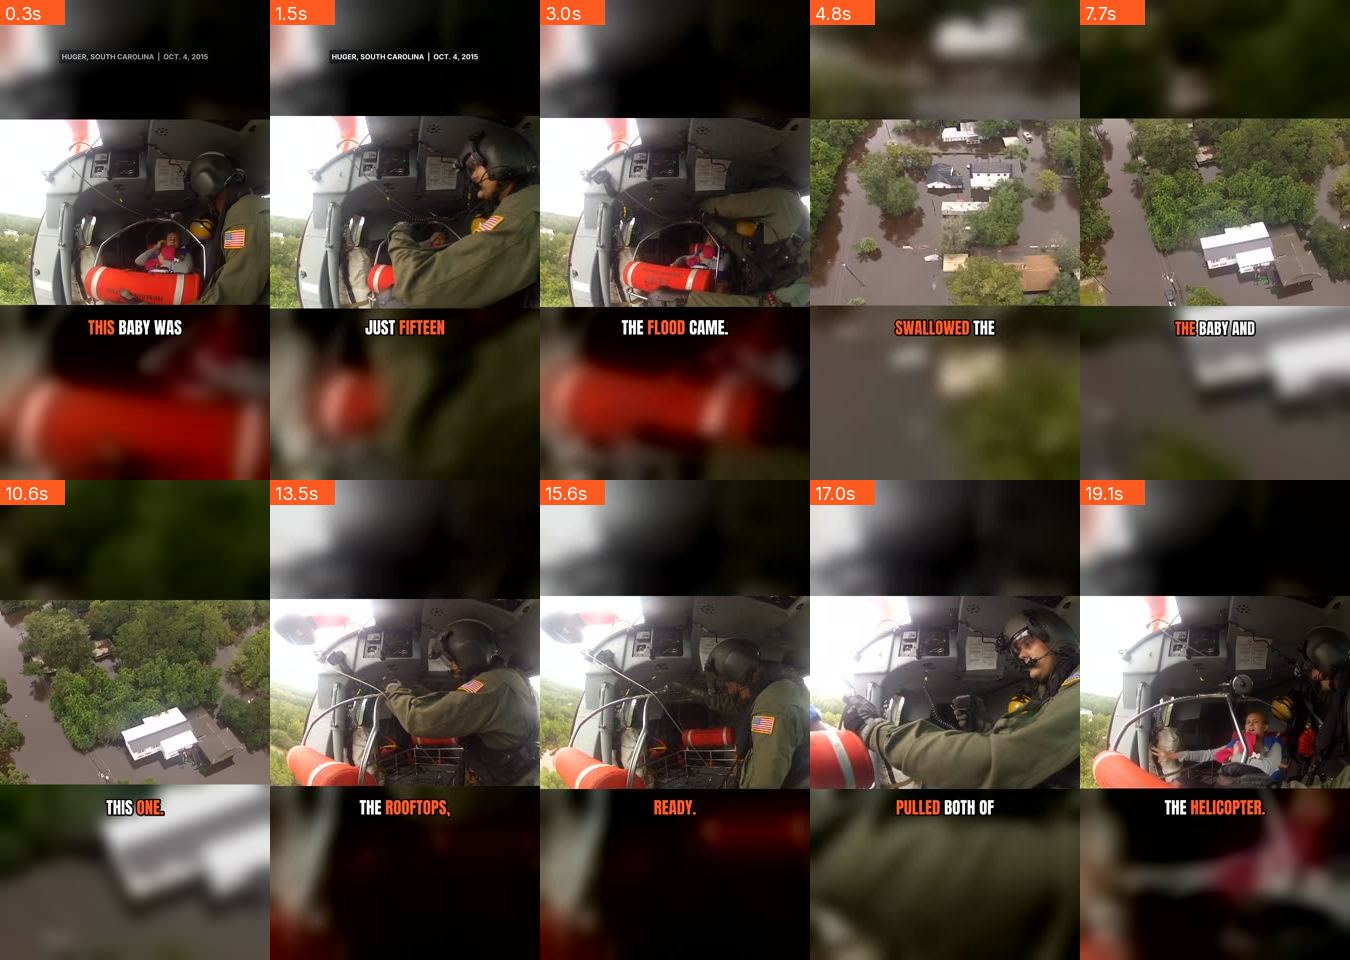
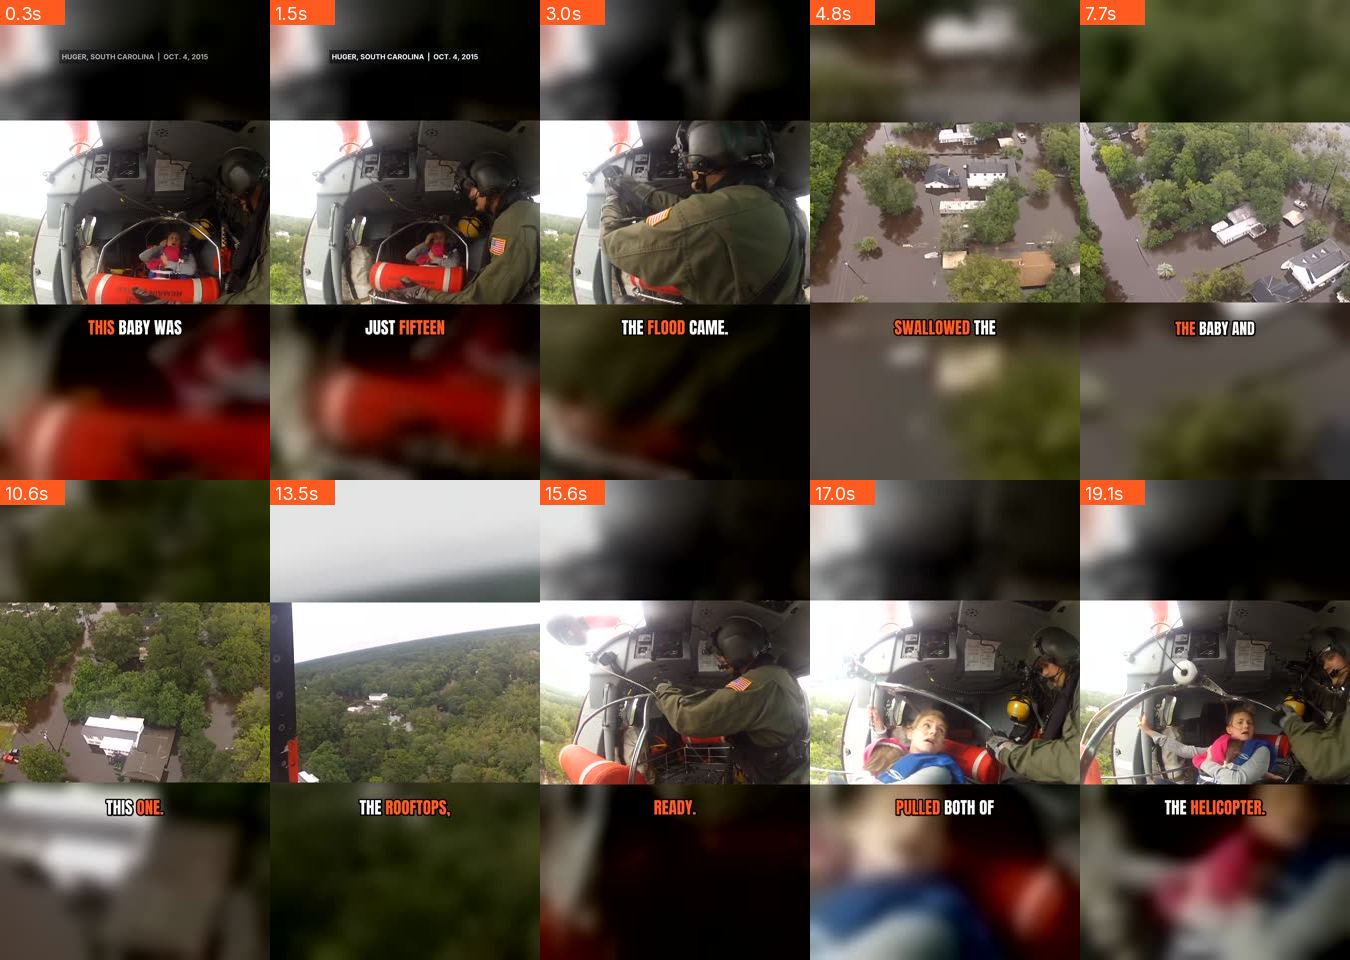
Steadier edit (no zoom wobble, 2 to 4 second cuts, no slow-motion below 0.9x), subtle room echo on the narrator; three Shorts rebuilt and held for review after the first uploads were deleted
Claude-Session: https://claude.ai/code/session_01MAMA67GWHEwqiBTs9mCuxT

diff --git a/pipeline/build.py b/pipeline/build.py
@@ -291,7 +291,7 @@ def segment_filter(seg, sw, sh, crop=None):
         layout = "crop" if portrait else "fit"
     pts = (f"crop={crop}," if crop else "") + f"setpts=(PTS-STARTPTS)/{speed}"
     dur = float(seg.get("_dur") or 0)
-    push = float(seg.get("push", 0.06)) if dur else 0.0  # slow push-in across the shot
+    push = float(seg.get("push", 0.0)) if dur else 0.0  # off by default: per-frame rescaling looked shaky (owner, Oct 27)
     grow = f"(1+{push}*min(t/{dur:.3f},1))" if push else "1"
     if layout == "crop":
         cx = float(seg.get("crop_x", 0.5))
@@ -703,6 +703,8 @@ def mix_audio(spec, cfg, footage, src_audio, voice_wav, timeline, total, work):
     fc = [f"[0:a]atrim=0:{total},asetpts=PTS-STARTPTS,highpass=f=85,"
           "equalizer=f=250:t=q:w=1.2:g=-2,equalizer=f=3200:t=q:w=1.0:g=2.5,"
           "acompressor=threshold=-20dB:ratio=3:attack=6:release=90:makeup=2,"
+          + (f"aecho=1.0:1.0:{mixcfg.get('room_delays', '28|47|71|103|149')}:{mixcfg.get('room_decays', '0.16|0.12|0.09|0.06|0.04')},"
+             if mixcfg.get("voice_room", True) else "") +
           "loudnorm=I=-16:TP=-2:LRA=6,aformat=channel_layouts=stereo,asplit=3[vo][k1][k2]"]
     beds = []
     if keep_src:
@@ -738,27 +740,43 @@ def mix_audio(spec, cfg, footage, src_audio, voice_wav, timeline, total, work):
     return final
 
 
+MIN_SHOT = 2.2      # seconds; shorter cuts read as jumpy (owner, Oct 27)
+MIN_SPEED = 0.9     # slower than this stutters
+
+
 def plan_shots(spec, timeline, total):
-    """Give every narration line its own shots, cut to that line's exact time window.
+    """Give every narration line its own shots, cut to that line's time window.
 
     Window i runs from line i's first word to line i+1's first word (line 0 from 0,
-    the last line to the end). Each shot in the window gets an equal share; a shot
-    shorter than its share is slowed down a little (never below 0.7x)."""
+    the last line to the end). A line uses as many of its listed shots as fit at
+    MIN_SHOT seconds each, in order, with equal shares. Shots are never slowed
+    below MIN_SPEED; if a shot is too short the line uses fewer, longer shots."""
     starts = [0.0] + [t["start"] for t in timeline[1:]]
     ends = starts[1:] + [total]
     out = []
     for i, shots in enumerate(spec["line_shots"]):
         win = max(ends[i] - starts[i], 0.3)
-        share = win / len(shots)
-        for sh in shots:
-            sh = dict(sh)
+        lens = [float(x["end"]) - float(x["start"]) for x in shots]
+        best = None
+        for n in range(1, len(shots) + 1):
+            share = win / n + 0.08
+            if n > 1 and share < 1.5:
+                break
+            rest = sorted(range(1, len(shots)), key=lambda k: -lens[k])
+            pool = sorted([0] + rest[:n - 1])
+            if all(lens[k] / share >= MIN_SPEED for k in pool):
+                score = abs(share - 3.0) + 0.3 * n
+                if best is None or score < best[0]:
+                    best = (score, pool, share)
+        if best is None:
+            raise RuntimeError(f"line {i + 1}: shots are {', '.join(f'{x:.1f}' for x in lens)}s but the line needs "
+                               f"{win:.1f}s; give that line longer shots")
+        _, chosen, share = best
+        for k in chosen:
+            sh = dict(shots[k])
             avail = float(sh["end"]) - float(sh["start"])
-            speed = min(1.0, avail / (share + 0.08))
-            if speed < 0.7:
-                raise RuntimeError(f"line {i + 1}: shot {sh['start']}-{sh['end']} is {avail:.1f}s but needs {share:.1f}s; "
-                                   "give that line a longer shot or another shot")
-            sh["speed"] = round(speed, 3)
-            sh["_dur"] = round(share + 0.08, 3)  # a little extra; the final render trims to the exact length
+            sh["speed"] = round(min(1.0, avail / share), 3)
+            sh["_dur"] = round(share, 3)
             out.append(sh)
     return out
 

diff --git a/pipeline/validate_spec.py b/pipeline/validate_spec.py
@@ -18,7 +18,7 @@ def plain(t):
 
 
 LANES = {"rescue", "aviation_naval", "hazards"}
-WORDS_PER_SEC = 2.85  # Brian on v4 reads about 170 words a minute
+WORDS_PER_SEC = 2.9  # Brian on v4 measured at 166 to 176 words a minute
 
 
 def norm(s):
@@ -123,12 +123,13 @@ def validate(spec_path):
                 errors.append(f"line {i + 1}: give it at least one shot")
                 continue
             need = len(plain(line).split()) / WORDS_PER_SEC + 0.25
-            have = sum(max(float(x["end"]) - float(x["start"]), 0) for x in shots) / 0.7
+            have = sum(max(float(x["end"]) - float(x["start"]), 0) for x in shots) / 0.9
             if have < need:
                 errors.append(f"line {i + 1}: shots cover about {have * 0.7:.1f}s but the line takes about {need:.1f}s")
             share = need / len(shots)
-            if share > 3.2:
-                warnings.append(f"line {i + 1}: each shot holds about {share:.1f}s; add a shot so cuts land every 1.5 to 2.5s")
+            short = [x for x in shots if float(x["end"]) - float(x["start"]) < 2.0]
+            if short:
+                warnings.append(f"line {i + 1}: shots under 2 seconds feel jumpy; use 2.2 to 3 second shots")
         flat = [x for shots in ls for x in shots]
     else:
         flat = spec["segments"]
